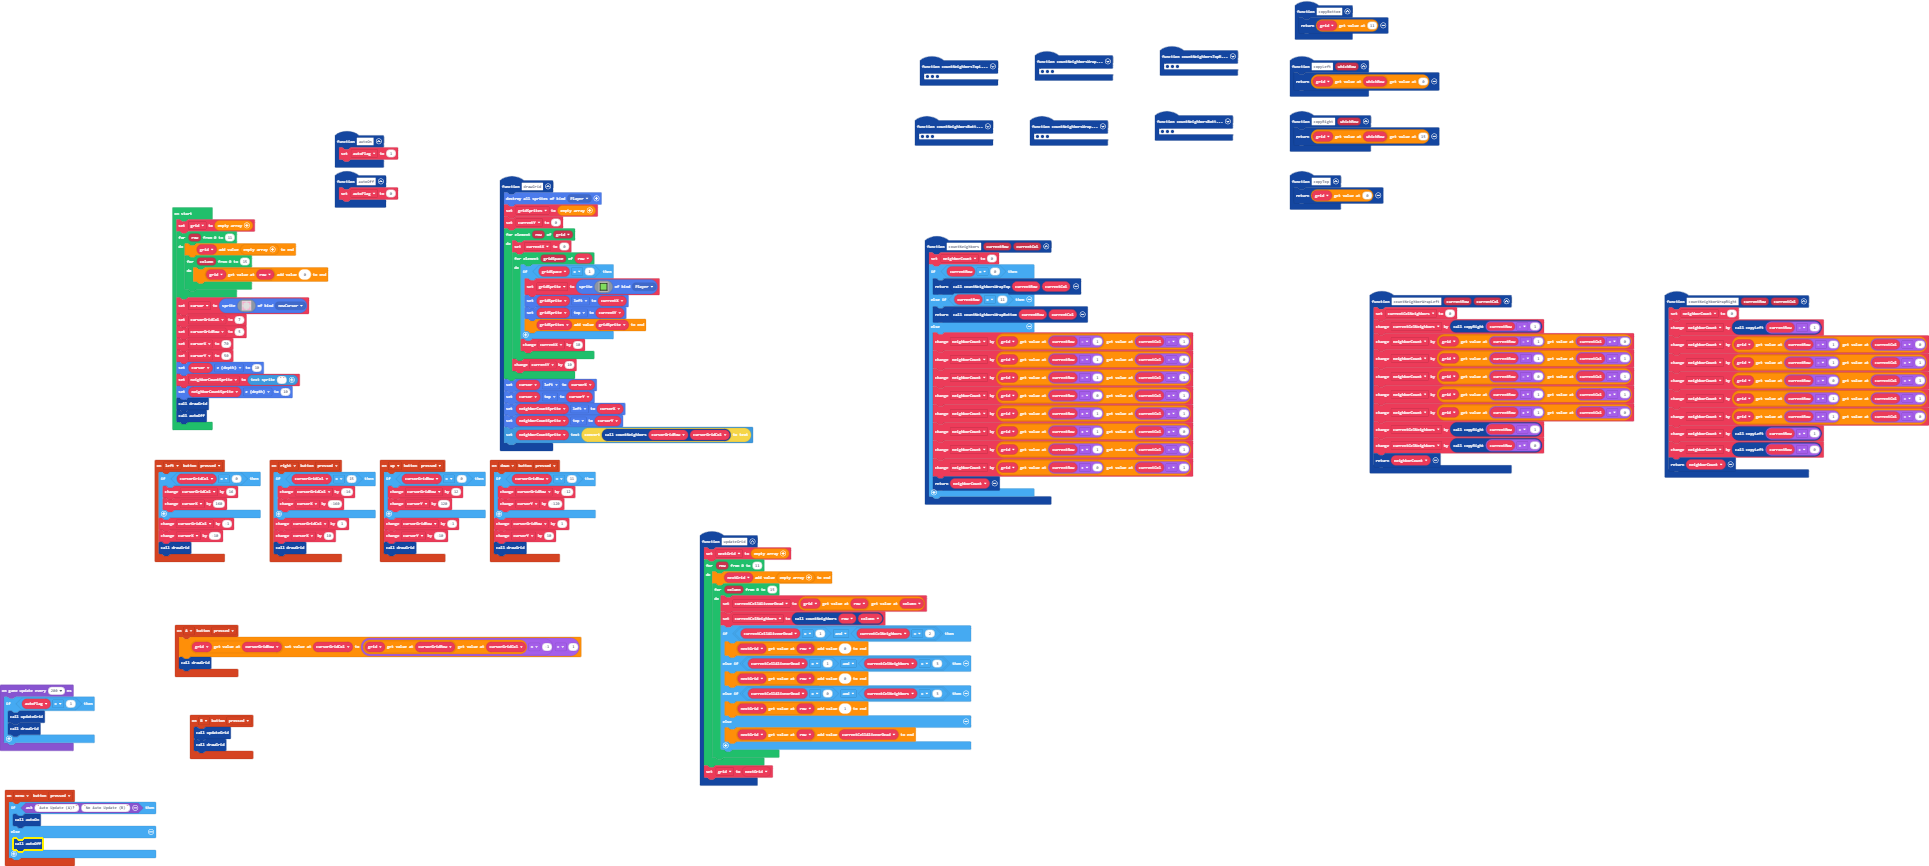
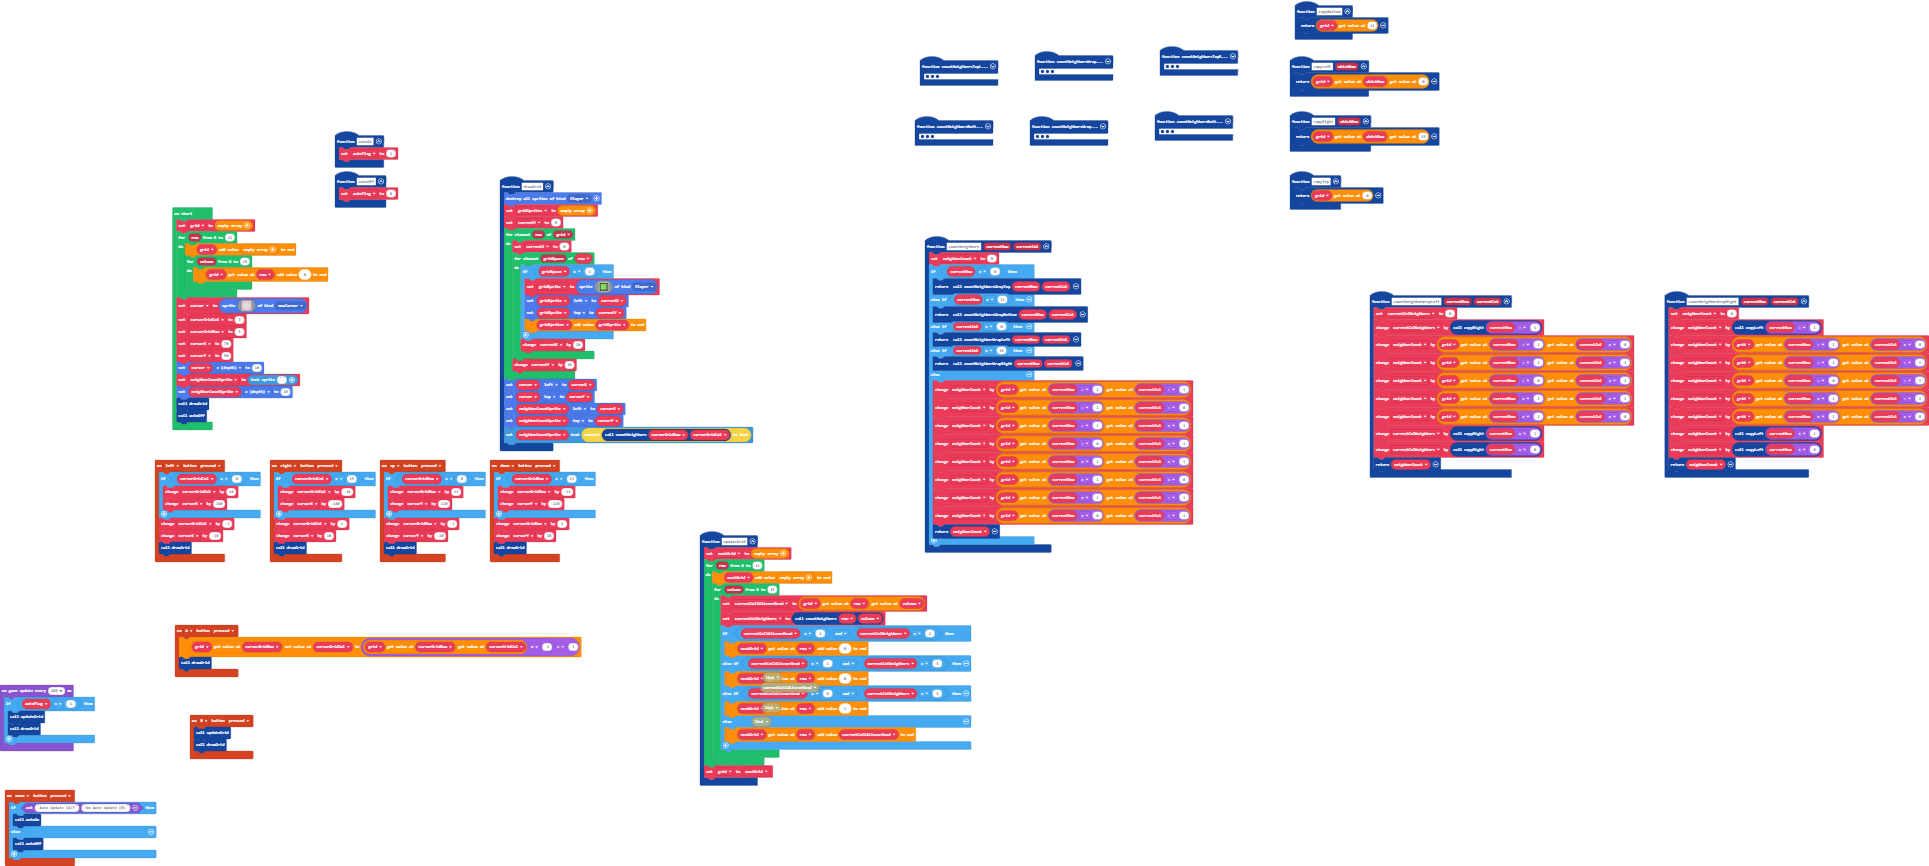
Update main.blocks, main.ts

diff --git a/main.ts b/main.ts
@@ -119,9 +119,9 @@ function countNeighborWrapRight (currentRow: number, currentCol: number) {
     neighborCount = 0
     neighborCount += copyLeft(currentRow - 1)
     neighborCount += grid[currentRow - 1][currentCol + 0]
-    neighborCount += grid[currentRow - 1][currentCol + 1]
-    neighborCount += grid[currentRow - 0][currentCol + 1]
-    neighborCount += grid[currentRow + 1][currentCol + 1]
+    neighborCount += grid[currentRow - 1][currentCol - 1]
+    neighborCount += grid[currentRow - 0][currentCol - 1]
+    neighborCount += grid[currentRow + 1][currentCol - 1]
     neighborCount += grid[currentRow + 1][currentCol + 0]
     neighborCount += copyLeft(currentRow + 1)
     neighborCount += copyLeft(currentRow + 0)
@@ -175,6 +175,10 @@ function countNeighbors (currentRow: number, currentCol: number) {
         return countNeighborsWrapTop(currentRow, currentCol)
     } else if (currentRow == 11) {
         return countNeighborsWrapBottom(currentRow, currentCol)
+    } else if (currentCol == 0) {
+        return countNeighborWrapLeft(currentRow, currentCol)
+    } else if (currentCol == 15) {
+        return countNeighborWrapRight(currentRow, currentCol)
     } else {
         neighborCount += grid[currentRow - 1][currentCol - 1]
         neighborCount += grid[currentRow - 1][currentCol - 0]
